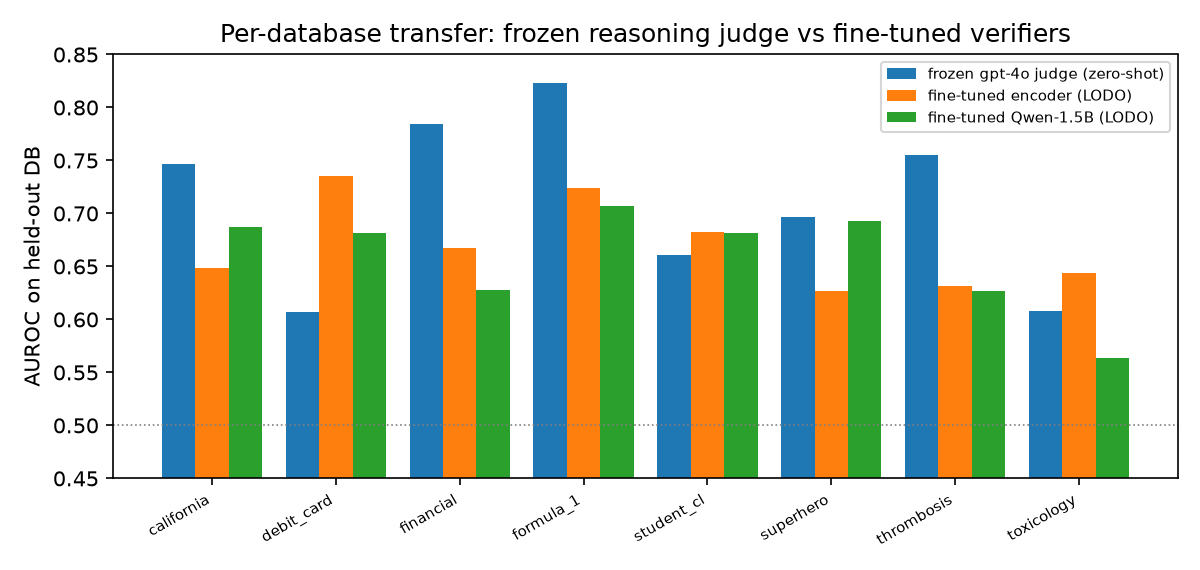
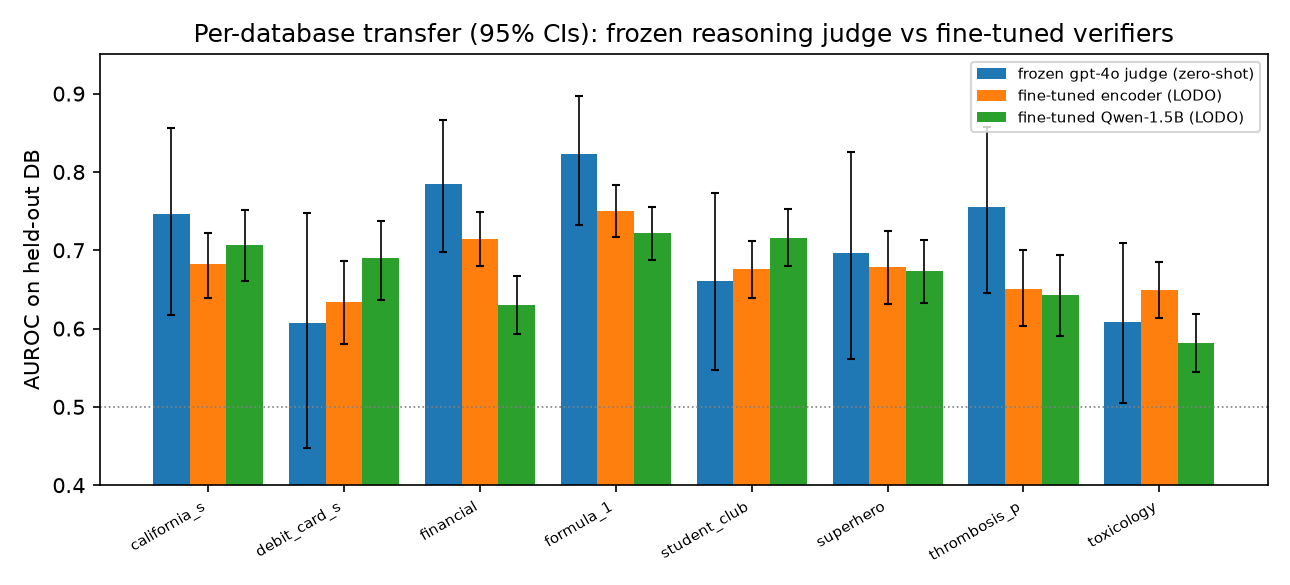
Paper 1 Fig 1: read per-DB transfer from synced JSONs + draw 95% CI error bars
Removes the June hardcode (paper1_figures.py:122 'json not yet synced') now that the re-run JSONs with
per-example scores are committed. Fig 1 now computes per-DB AUROC + bootstrap CIs for frozen judge,
ModernBERT, and Qwen-1.5B and draws error bars -- making the honest picture visible (frozen leads 5/8,
all per-DB CIs overlap). Regenerated paper/figures/paper1_lodo_perdb.png.

Changed region(s): [[0.0, 0.0298, 0.9867, 0.9544], [0.0308, 0.1491, 0.0925, 0.2088], [0.7092, 0.8947, 0.7708, 0.9544]]

diff --git a/scripts/paper1_figures.py b/scripts/paper1_figures.py
@@ -111,30 +111,49 @@ def main():
     plt.title("Reliability"); plt.legend(fontsize=7); plt.tight_layout()
     plt.savefig(os.path.join(FIG, "paper1_reliability.png"), dpi=150); plt.close()
 
-    # ---- Fig 3: per-DB transfer ----
-    udb = sorted(set(dbs))
-    frozen = {d: auroc([v4o[i] for i in range(len(dbs)) if dbs[i] == d],
-                       [y[i] for i in range(len(dbs)) if dbs[i] == d]) for d in udb}
-    enc = json.load(open(os.path.join(ROOT, "server_experiments", "results",
-                                      "exp1_verifier_ModernBERT-base.json")))["lodo_per_db"]
-    # exp3 (Qwen-1.5B LoRA) per-db, from results paste (json not yet synced from server)
-    gen = {"california_schools": 0.687, "debit_card_specializing": 0.682, "financial": 0.628,
-           "formula_1": 0.707, "student_club": 0.682, "superhero": 0.693,
-           "thrombosis_prediction": 0.627, "toxicology": 0.564}
+    # ---- Fig 3: per-DB transfer, with 95% CIs (frozen vs the two fine-tuned verifiers) ----
+    def auroc_ci(s, yv, nb=2000):
+        s = np.asarray(s, float); yv = np.asarray(yv, float); base = auroc(s, yv)
+        n = len(s); rng = np.random.default_rng(0); bs = []
+        for _ in range(nb):
+            idx = rng.integers(0, n, n)
+            if len(np.unique(yv[idx])) == 2:
+                bs.append(auroc(s[idx], yv[idx]))
+        lo, hi = (np.percentile(bs, [2.5, 97.5]) if bs else (base, base))
+        return base, lo, hi
+    RES = os.path.join(ROOT, "server_experiments", "results")
+    encj = json.load(open(os.path.join(RES, "exp1_verifier_ModernBERT-base.json")))
+    genj = json.load(open(os.path.join(RES, "exp3_judge_Qwen2.5-1.5B-Instruct.json")))
+    udb = sorted(encj["lodo_per_db_scores"])
+    def frozen_sy(d):
+        return ([v4o[i] for i in range(len(dbs)) if dbs[i] == d],
+                [y[i] for i in range(len(dbs)) if dbs[i] == d])
+    series = [("frozen gpt-4o judge (zero-shot)", lambda d: auroc_ci(*frozen_sy(d))),
+              ("fine-tuned encoder (LODO)",
+               lambda d: auroc_ci(encj["lodo_per_db_scores"][d], encj["lodo_per_db_labels"][d])),
+              ("fine-tuned Qwen-1.5B (LODO)",
+               lambda d: auroc_ci(genj["lodo_per_db_scores"][d], genj["lodo_per_db_labels"][d]))]
+    vals = {name: [fn(d) for d in udb] for name, fn in series}
     x = np.arange(len(udb)); w = 0.27
-    plt.figure(figsize=(8, 3.8))
-    plt.bar(x - w, [frozen[d] for d in udb], w, label="frozen gpt-4o judge (zero-shot)")
-    plt.bar(x, [enc.get(d, np.nan) for d in udb], w, label="fine-tuned encoder (LODO)")
-    plt.bar(x + w, [gen.get(d, np.nan) for d in udb], w, label="fine-tuned Qwen-1.5B (LODO)")
+    plt.figure(figsize=(8.6, 3.9))
+    for k, (name, _) in enumerate(series):
+        base = [vals[name][j][0] for j in range(len(udb))]
+        err = [[vals[name][j][0] - vals[name][j][1] for j in range(len(udb))],
+               [vals[name][j][2] - vals[name][j][0] for j in range(len(udb))]]
+        plt.bar(x + (k - 1) * w, base, w, yerr=err, capsize=2, label=name, error_kw={"lw": 0.8})
     plt.axhline(0.5, color="gray", lw=0.8, ls=":")
-    plt.xticks(x, [d[:10] for d in udb], rotation=30, ha="right", fontsize=7)
-    plt.ylabel("AUROC on held-out DB"); plt.ylim(0.45, 0.85)
-    plt.title("Per-database transfer: frozen reasoning judge vs fine-tuned verifiers")
+    plt.xticks(x, [d[:12] for d in udb], rotation=30, ha="right", fontsize=7)
+    plt.ylabel("AUROC on held-out DB"); plt.ylim(0.40, 0.95)
+    plt.title("Per-database transfer (95% CIs): frozen reasoning judge vs fine-tuned verifiers")
     plt.legend(fontsize=7); plt.tight_layout()
     plt.savefig(os.path.join(FIG, "paper1_lodo_perdb.png"), dpi=150); plt.close()
 
-    print(f"\nfrozen gpt-4o per-DB mean = {np.mean(list(frozen.values())):.3f} "
-          f"(vs encoder LODO 0.670, Qwen LODO 0.659)")
+    fr = [vals["frozen gpt-4o judge (zero-shot)"][j][0] for j in range(len(udb))]
+    en = [vals["fine-tuned encoder (LODO)"][j][0] for j in range(len(udb))]
+    ge = [vals["fine-tuned Qwen-1.5B (LODO)"][j][0] for j in range(len(udb))]
+    wins = sum(fr[j] > max(en[j], ge[j]) for j in range(len(udb)))
+    print(f"\nfrozen per-DB mean = {np.mean(fr):.3f}; frozen leads on {wins}/{len(udb)} DBs "
+          f"(vs encoder + Qwen-1.5B)")
     print(f"wrote 3 figures to {FIG}")
 
 
